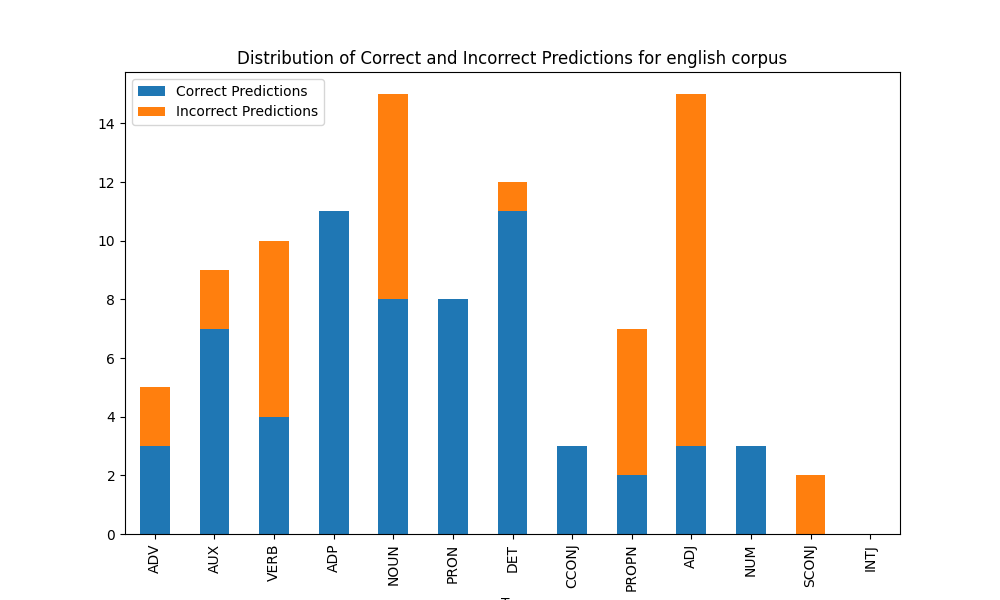
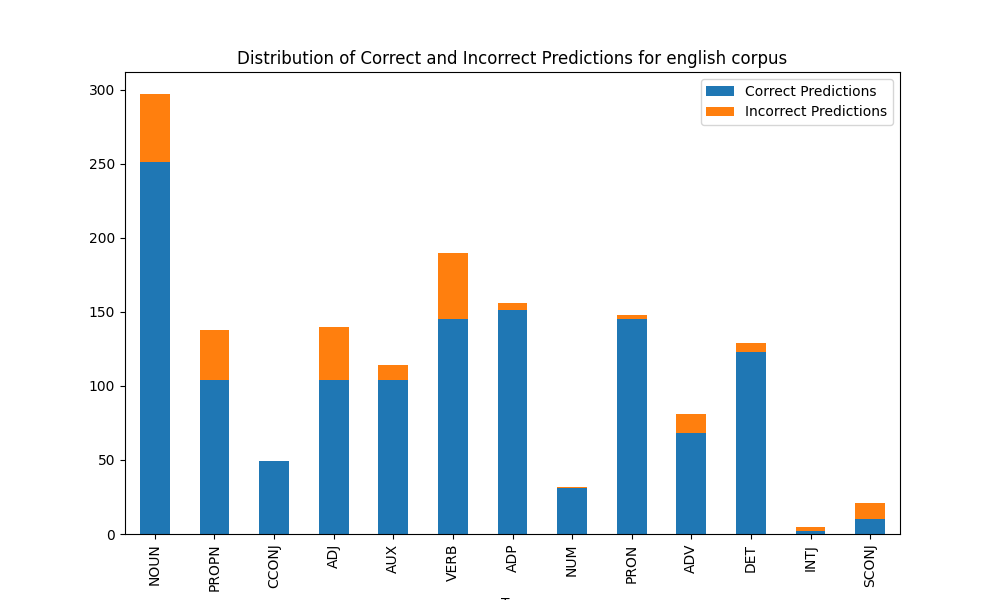
doc for function function and plot results

diff --git a/functions.py b/functions.py
@@ -97,7 +97,7 @@ def clean_data(
     df["WORD"] = df["WORD"].astype(str)
     df["POS"] = df["POS"].astype(str)
 
-    df = df.sample(n=1000, # for computational reasons 
+    df = df.sample(n=10000, # for computational reasons 
                 random_state=42
                 )
 
